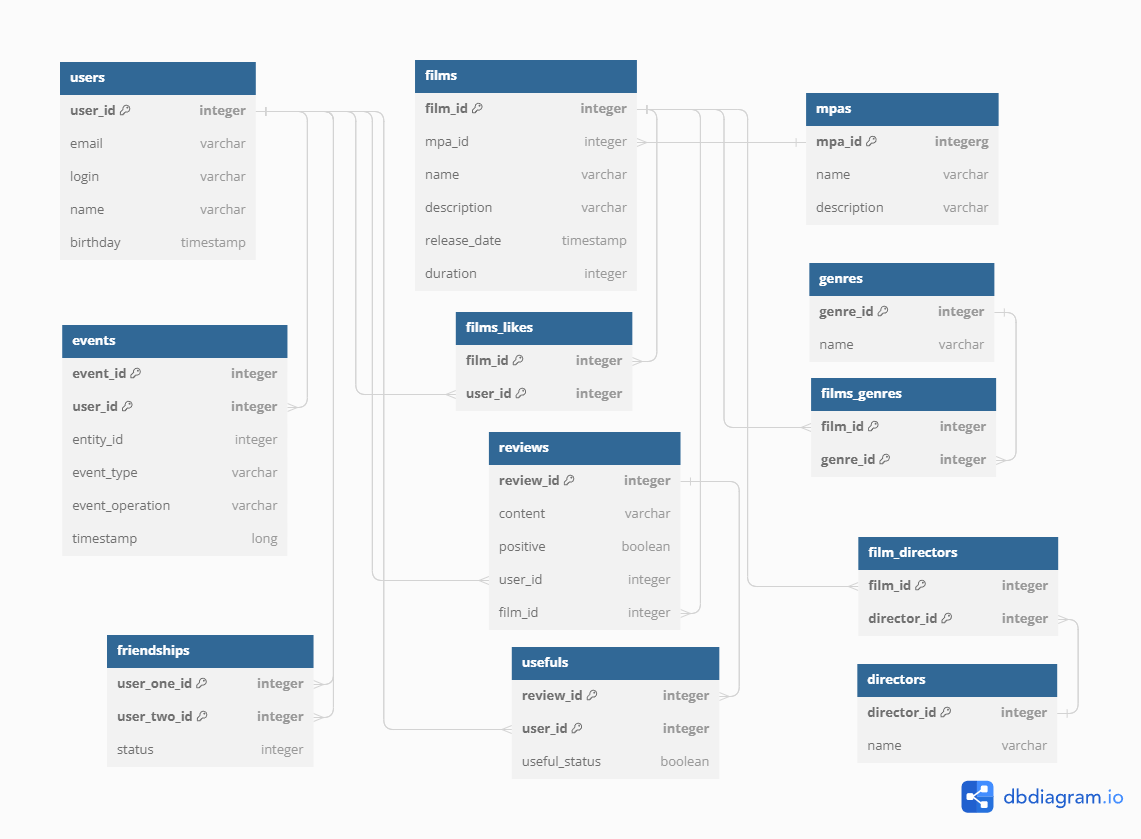
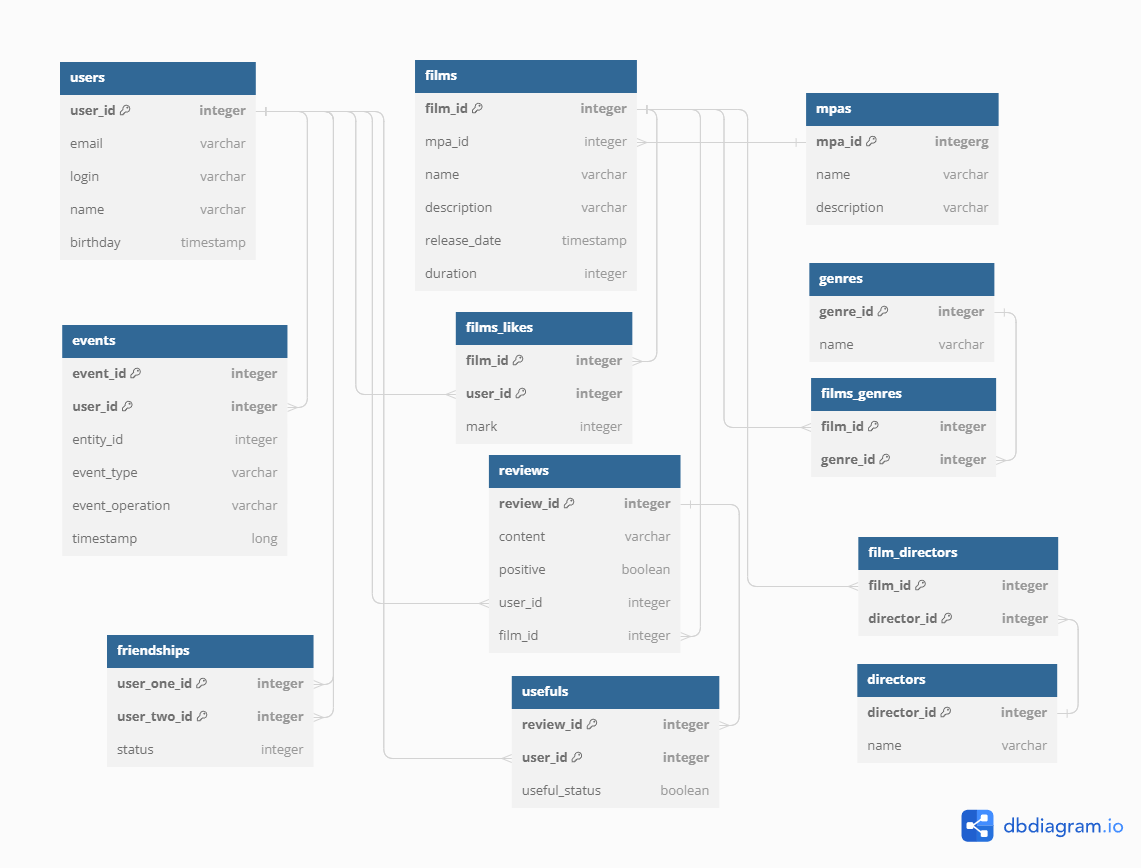
add-marks. A part of the algorithms has been written.

diff --git a/src/main/java/ru/yandex/practicum/filmorate/storage/film/impl/DBFilmStorage.java b/src/main/java/ru/yandex/practicum/filmorate/storage/film/impl/DBFilmStorage.java
@@ -59,7 +59,7 @@ public class DBFilmStorage implements FilmStorage {
                 "       f.DURATION, " +
                 "       m.NAME as MPA_NAME, " +
                 "       m.DESCRIPTION as MPA_DESCRIPTION, " +
-                "       count (fl.USER_ID) as CNT " +
+                "       (SUM (fl.MARK) / COUNT(fl.USER_ID)) as CNT " +
                 "from FILMS as f " +
                 "left join MPAS as m on f.MPA_ID = M.MPA_ID " +
                 "left join FILMS_LIKES as fl on f.FILM_ID = FL.FILM_ID " +
@@ -135,7 +135,7 @@ public class DBFilmStorage implements FilmStorage {
     }
 
     @Override
-    public Film setLikeToFilm(long id, long userId) {
+    public Film setLikeToFilm(long id, long userId, int mark) {
         int cnt = 0;
         String sqlQuery = "select count(FILM_ID) as CNT from FILMS_LIKES where FILM_ID=? and USER_ID=?";
         SqlRowSet userRows = jdbcTemplate.queryForRowSet(sqlQuery, id, userId);
@@ -143,8 +143,11 @@ public class DBFilmStorage implements FilmStorage {
             cnt = userRows.getInt("CNT");
         }
         if (cnt == 0) {
-            sqlQuery = "insert into FILMS_LIKES (FILM_ID, USER_ID) values (?, ?)";
-            jdbcTemplate.update(sqlQuery, id, userId);
+            sqlQuery = "insert into FILMS_LIKES (FILM_ID, USER_ID, MARK) values (?, ?, ?)";
+            jdbcTemplate.update(sqlQuery, id, userId, mark);
+        } else {
+            sqlQuery = "update FILMS_LIKES set MARK=? where FILM_ID=? and USER_ID=?";
+            jdbcTemplate.update(sqlQuery, mark, id, userId);
         }
         return getFilm(id);
     }
@@ -159,7 +162,7 @@ public class DBFilmStorage implements FilmStorage {
     @Override
     public List<Film> getPopularFilms(Integer count, Integer genreId, Integer year) {
         String sqlQuery = "SELECT F.FILM_ID, F.MPA_ID, F.NAME, F.DESCRIPTION, F.RELEASEDATE, F.DURATION, "
-                + "COUNT (L.USER_ID) as CNT, "
+                + "(SUM (MARK) / COUNT(USER_ID)) as CNT, "
                 + "m.NAME as MPA_NAME, m.DESCRIPTION as MPA_DESCRIPTION "
                 + "from FILMS as F "
                 + "LEFT JOIN FILMS_LIKES L on F.FILM_ID = L.FILM_ID "
@@ -208,7 +211,7 @@ public class DBFilmStorage implements FilmStorage {
                     getMpaDataByMpaId(userRows.getLong(MPA_ID)),
                     getGenresDataForFilm(userRows.getLong(FILM_ID)),
                     getDirectorsForFilm(userRows.getLong(FILM_ID)),
-                    getLikesCount(userRows.getLong(FILM_ID)));
+                    getRating(userRows.getLong(FILM_ID)));
         }
         return null;
     }
@@ -226,8 +229,8 @@ public class DBFilmStorage implements FilmStorage {
         String sqlQuery = "select f.FILM_ID, f.MPA_ID, f.NAME, f.DESCRIPTION, f.RELEASEDATE, f.DURATION, " +
                 "m.NAME AS MPA_NAME, m.DESCRIPTION as MPA_DESCRIPTION, count(flc.USER_ID) as CNT " +
                 "from FILMS as f " +
-                "inner join FILMS_LIKES as l1 ON f.FILM_ID = l1.FILM_ID and l1.USER_ID = ? " +
-                "inner join FILMS_LIKES as l2 ON l1.FILM_ID = l2.FILM_ID and l2.USER_ID = ? " +
+                "inner join FILMS_LIKES as l1 ON f.FILM_ID = l1.FILM_ID and l1.USER_ID = ? and l1.MARK > 4 " +
+                "join FILMS_LIKES as l2 ON l1.FILM_ID = l2.FILM_ID and l2.USER_ID = ? and l2.MARK > 4 " +
                 "left join MPAS as m ON m.MPA_ID = f.MPA_ID " +
                 "left join FILMS_LIKES as flc ON flc.FILM_ID = f.FILM_ID " +
                 "group by f.FILM_ID";
@@ -256,7 +259,7 @@ public class DBFilmStorage implements FilmStorage {
         List<Film> films = getFilmsByIds(new ArrayList<>(filmsIds));
         if (year && likes) {
             return films.stream()
-                    .sorted(Comparator.comparingInt(Film::getLikesCount))
+                    .sorted(Comparator.comparingDouble(Film::getRating))
                     .sorted(Comparator.comparing(Film::getReleaseDate))
                     .collect(Collectors.toList());
         } else if (year) {
@@ -265,7 +268,7 @@ public class DBFilmStorage implements FilmStorage {
                     .collect(Collectors.toList());
         } else if (likes) {
             return films.stream()
-                    .sorted(Comparator.comparingInt(Film::getLikesCount))
+                    .sorted(Comparator.comparingDouble(Film::getRating))
                     .collect(Collectors.toList());
         } else {
             return films;
@@ -281,14 +284,15 @@ public class DBFilmStorage implements FilmStorage {
         String modQuery = "%" + query + "%";
         String sqlQuery = "SELECT f.film_id, f.mpa_id, f.name, f.description, f.releaseDate, f.duration, " +
                 "m.NAME as MPA_NAME, m.DESCRIPTION as MPA_DESCRIPTION, " +
-                "COUNT(DISTINCT fl.user_id) AS CNT " +
+                "(SUM (fl.MARK) / COUNT(fl.USER_ID)) as CNT, " +
+                "COUNT(fl.USER_ID) as num_mark " +
                 "FROM FILMS AS f " +
                 "LEFT JOIN FILMS_LIKES AS fl ON f.film_id = fl.film_id " +
                 "LEFT JOIN FILMS_DIRECTORS AS fd ON fd.film_id = f.film_id " +
                 "LEFT JOIN DIRECTORS AS d ON d.director_id = fd.director_id " +
                 "LEFT JOIN MPAS AS m ON m.MPA_ID = f.MPA_ID " +
                 "WHERE %s " +
-                "GROUP BY f.film_id ORDER BY CNT DESC";
+                "GROUP BY f.film_id ORDER BY num_mark DESC";
         for (String str : by.split(",")) {
             if (str.equals("director")) {
                 director = true;
@@ -353,7 +357,7 @@ public class DBFilmStorage implements FilmStorage {
                 "       f.DURATION, " +
                 "       m.NAME as MPA_NAME, " +
                 "       m.DESCRIPTION as MPA_DESCRIPTION, " +
-                "       count (fl.USER_ID) as CNT " +
+                "       (sum (fl.MARK) / count(fl.USER_ID)) as CNT " +
                 "from FILMS as f " +
                 "left join MPAS as m on f.MPA_ID = M.MPA_ID " +
                 "left join FILMS_LIKES as fl on f.FILM_ID = FL.FILM_ID " +
@@ -386,13 +390,13 @@ public class DBFilmStorage implements FilmStorage {
         return null;
     }
 
-    private int getLikesCount(long id) {
-        String sqlQuery = "select count(USER_ID) as CNT from FILMS_LIKES where FILM_ID=?";
+    private Double getRating(long id) {
+        String sqlQuery = "select (SUM (MARK) / COUNT(USER_ID)) as CNT from FILMS_LIKES where FILM_ID=?";
         SqlRowSet userRows = jdbcTemplate.queryForRowSet(sqlQuery, id);
         if (userRows.next()) {
-            return userRows.getInt("CNT");
+            return userRows.getDouble("CNT");
         }
-        return 0;
+        return 0.0;
     }
 
     private Set<Director> getDirectorsForFilm(long id) {
@@ -446,7 +450,7 @@ public class DBFilmStorage implements FilmStorage {
                     rs.getDate(RELEASEDATE).toLocalDate(),
                     rs.getInt(DURATION),
                     new Mpa(rs.getLong(MPA_ID), rs.getString(MPA_NAME), rs.getString(MPA_DESCRIPTION)),
-                    null, null, rs.getInt(CNT));
+                    null, null, rs.getDouble(CNT));
         } catch (SQLException e) {
             log.warn("Ошибка получения фильма: {}", e.getMessage());
             throw new SQLWorkException("Ошибка получения фильма");

diff --git a/src/test/java/ru/yandex/practicum/filmorate/storage/film/impl/FilmStorageTests.java b/src/test/java/ru/yandex/practicum/filmorate/storage/film/impl/FilmStorageTests.java
@@ -79,9 +79,9 @@ class FilmStorageTests {
     void setLikeToFilmTest() {
         User user = userStorage.createUser(createUser());
         Film film = filmStorage.createFilm(createFilm());
-        filmStorage.setLikeToFilm(film.getId(), user.getId());
+        filmStorage.setLikeToFilm(film.getId(), user.getId(), 8);
         Film result = filmStorage.getFilm(film.getId());
-        assertEquals(1, result.getLikesCount(), "Ошибка установки лайка");
+        assertEquals(8, result.getRating(), "Ошибка установки лайка");
     }
 
     @Test
@@ -89,12 +89,12 @@ class FilmStorageTests {
     void deleteLikeFromFilmTest() {
         User user = userStorage.createUser(createUser());
         Film film = filmStorage.createFilm(createFilm());
-        filmStorage.setLikeToFilm(film.getId(), user.getId());
+        filmStorage.setLikeToFilm(film.getId(), user.getId(), 7);
         Film fTwo = filmStorage.getFilm(film.getId());
-        assertEquals(1, fTwo.getLikesCount(), "Ошибка установки лайка");
+        assertEquals(7, fTwo.getRating(), "Ошибка установки лайка");
         filmStorage.deleteLikeFromFilm(film.getId(), user.getId());
         Film result = filmStorage.getFilm(film.getId());
-        assertEquals(0, result.getLikesCount(), "Ошибка удаления лайка");
+        assertEquals(0, result.getRating(), "Ошибка удаления лайка");
     }
 
     @Test
@@ -107,6 +107,49 @@ class FilmStorageTests {
         assertEquals(2, films.size(), "Ошибка списка популярных ");
     }
 
+    @Test
+    @DisplayName("Корректность расчета рейтинга")
+    void filmRatingTest() {
+        Film film = filmStorage.createFilm(createFilm());
+        User user1 = userStorage.createUser(createUser());
+        User user2 = userStorage.createUser(createUser());
+        filmStorage.setLikeToFilm(film.getId(), user1.getId(), 10);
+        filmStorage.setLikeToFilm(film.getId(), user2.getId(), 5);
+        Film result = filmStorage.getFilm(film.getId());
+        assertEquals(7.5, result.getRating());
+    }
+
+    @Test
+    @DisplayName("Сортировка по популярности по рейтингу")
+    void popularTest() {
+        Film film1 = filmStorage.createFilm(createFilm());
+        Film film2 = filmStorage.createFilm(createFilm());
+        User user1 = userStorage.createUser(createUser());
+        User user2 = userStorage.createUser(createUser());
+        filmStorage.setLikeToFilm(film1.getId(), user1.getId(), 9);
+        filmStorage.setLikeToFilm(film2.getId(), user1.getId(), 10);
+        filmStorage.setLikeToFilm(film2.getId(), user2.getId(), 5);
+        List<Film> result = filmStorage.getPopularFilms(10, 0, 0);
+        assertEquals(2, result.size());
+        film1 = result.get(0);
+        assertEquals(1, film1.getId());
+    }
+
+    @Test
+    @DisplayName("Общие только с позитивными оценками")
+    void commonFilmsTest() {
+        Film film1 = filmStorage.createFilm(createFilm());
+        Film film2 = filmStorage.createFilm(createFilm());
+        User user1 = userStorage.createUser(createUser());
+        User user2 = userStorage.createUser(createUser());
+        filmStorage.setLikeToFilm(film2.getId(), user1.getId(), 10);
+        filmStorage.setLikeToFilm(film2.getId(), user2.getId(), 5);
+        filmStorage.setLikeToFilm(film1.getId(), user1.getId(), 10);
+        filmStorage.setLikeToFilm(film1.getId(), user2.getId(), 4);
+        List<Film> result = filmStorage.getCommonFilms(user1.getId(), user2.getId());
+        assertEquals(1, result.size());
+        assertEquals(2, result.get(0).getId());
+    }
 
     private Film createFilm() {
         Set<Genre> genres = new HashSet<>();

diff --git a/src/main/java/ru/yandex/practicum/filmorate/controller/FilmController.java b/src/main/java/ru/yandex/practicum/filmorate/controller/FilmController.java
@@ -6,6 +6,8 @@ import ru.yandex.practicum.filmorate.model.Film;
 import ru.yandex.practicum.filmorate.service.FilmService;
 
 import javax.validation.Valid;
+import javax.validation.constraints.Max;
+import javax.validation.constraints.Min;
 import java.util.List;
 import java.util.Set;
 
@@ -36,8 +38,9 @@ public class FilmController {
 
     @PutMapping("/{id}/like/{userId}")
     public Film setLikeToFilm(@PathVariable long id,
-                              @PathVariable long userId) {
-        return filmService.setLikeToFilm(id, userId);
+                              @PathVariable long userId,
+                              @RequestParam(defaultValue = "10", required = false) @Min(1) @Max(10) int mark) {
+        return filmService.setLikeToFilm(id, userId, mark);
     }
 
     @DeleteMapping("/{id}/like/{userId}")

diff --git a/src/main/java/ru/yandex/practicum/filmorate/service/FilmService.java b/src/main/java/ru/yandex/practicum/filmorate/service/FilmService.java
@@ -51,11 +51,11 @@ public class FilmService {
         return filmStorage.updateFilm(film);
     }
 
-    public Film setLikeToFilm(long id, long userId) {
+    public Film setLikeToFilm(long id, long userId, int mark) {
         checkFilmIsExist(id);
         checkUserIsExist(userId);
         eventStorage.addEvent(userId, EventType.LIKE, EventOperation.ADD, id);
-        return filmStorage.setLikeToFilm(id, userId);
+        return filmStorage.setLikeToFilm(id, userId, mark);
     }
 
     public Film deleteLikeFromFilm(long id, long userId) {

diff --git a/src/main/java/ru/yandex/practicum/filmorate/storage/film/FilmStorage.java b/src/main/java/ru/yandex/practicum/filmorate/storage/film/FilmStorage.java
@@ -15,7 +15,7 @@ public interface FilmStorage {
 
     boolean isExists(long id);
 
-    Film setLikeToFilm(long id, long userId);
+    Film setLikeToFilm(long id, long userId, int mark);
 
     Film deleteLikeFromFilm(long id, long userId);
 

diff --git a/src/main/java/ru/yandex/practicum/filmorate/model/Film.java b/src/main/java/ru/yandex/practicum/filmorate/model/Film.java
@@ -39,5 +39,5 @@ public class Film {
 
     private Set<Director> directors;
 
-    private int likesCount;
+    private double rating;
 }
